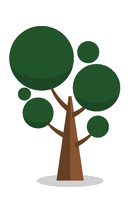
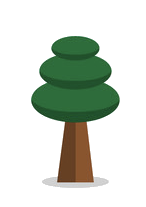
Fix for the morning

Changed region(s): [[0.0615, 0.1159, 0.9538, 0.9275]]

diff --git a/lib/pages/mainPage.dart b/lib/pages/mainPage.dart
@@ -302,8 +302,23 @@ class Content extends StatelessWidget {
 
   @override
   Widget build(BuildContext context) {
-    var treeList = ["Oak", "Birch", "Eukalyptus", "Willow", "Aloe Vera", "Rosewood", "Japanese Maple", "Cork", "Ceedar", "Banksia"];
-    var treeImg = ["Tree"];
+    var counter = 10;
+    var treeList = ["Wallnut", "Beech", "Eukalyptus", "Chestnut", "Aspen", "Elm", "Poplar", "Pine", "Acacia", "Palm"];
+    final score = ["4", "6", "1", "5", "8", "4", "9", "2", "6", "3"];
+
+    var treeImgOne = "lib/assets/images/treeImg/1.png";
+    var treeImgTwo = "lib/assets/images/treeImg/2.png";
+    var treeImgThree = "lib/assets/images/treeImg/3.png";
+    var treeImgFour = "lib/assets/images/treeImg/4.png";
+    var treeImgFive = "lib/assets/images/treeImg/5.png";
+    var treeImgSix = "lib/assets/images/treeImg/6.png";
+    var treeImgSeven = "lib/assets/images/treeImg/7.png";
+    var treeImgEight = "lib/assets/images/treeImg/8.png";
+    var treeImgNine = "lib/assets/images/treeImg/9.png";
+    var treeImgTen = "lib/assets/images/treeImg/10.png";
+
+    var treeImgList = [treeImgOne, treeImgTwo, treeImgThree, treeImgFour, treeImgFive, treeImgSix, treeImgSeven, treeImgEight, treeImgNine, treeImgTen];
+
 
     return Padding(
       padding: EdgeInsets.all(0.0),
@@ -314,11 +329,15 @@ class Content extends StatelessWidget {
         mainAxisSpacing: 32.0,
         crossAxisSpacing: 16.0,
         children: <Widget>[
-          for (String i in treeList)
+
+           for (int i = 1; i < counter; i++)
             Cards(
-              title: i,
+              title: treeList[i],
+              score: score[i],
+              treeImg: treeImgList[i],
               curve: 10.0,
             )
+
         ],
       ),
     );
@@ -328,8 +347,10 @@ class Content extends StatelessWidget {
 class Cards extends StatefulWidget {
   var title;
   double curve;
+  String score; 
+  var treeImg;
 
-  Cards({Key key, @required this.title, @required this.curve})
+  Cards({Key key, @required this.title, @required this.curve, @required this.score, @required this.treeImg})
       : super(key: key);
 
   @override
@@ -350,36 +371,53 @@ class _CardsState extends State<Cards> {
               builder: (BuildContext context) {
                 // return object of type Dialog
                 return AlertDialog(
-                  titlePadding: EdgeInsets.fromLTRB(20, 300, 20, 20),
+                  titlePadding: EdgeInsets.fromLTRB(20, 100, 20, 20),
                   shape: RoundedRectangleBorder(
                       borderRadius: BorderRadius.all(Radius.circular(15.0))),
-                  title: new Text(
-                    "Delete?",
-                    style: TextStyle(
-                      fontWeight: FontWeight.w600,
+                  // title: new Text(
+                  //   "Delete?",
+                  //   style: TextStyle(
+                  //     fontWeight: FontWeight.w600,
+                  //   ),
+                  // ),
+                  content: Column(
+                      crossAxisAlignment: CrossAxisAlignment.center,
+                      mainAxisAlignment: MainAxisAlignment.center,
+                      children: <Widget>[
+                        Image.asset(widget.treeImg), 
+                        Text("Tree Name"), 
+                        Text("Information"), 
+                        Text("Score"), 
+
+                      ],
                     ),
-                  ),
-                  //content: new Text("Alert Dialog body"),
                   actions: <Widget>[
                     // usually buttons at the bottom of the dialog
 
                     new FlatButton(
-                      child: new Text("Delete"),
-                      onPressed: () {
-                        //delete function
-                      },
-                    ),
-                    new FlatButton(
                       child: new Text(
-                        "Cancel",
+                        "AR",
                         style: TextStyle(
                           fontWeight: FontWeight.bold,
                         ),
                       ),
                       onPressed: () {
+                        //delete function
+                      },
+                    ),
+
+                      new FlatButton(
+                      child: new Text(
+                        "Cancel",
+                        // style: TextStyle(
+                        //   fontWeight: FontWeight.bold,
+                        // ),
+                      ),
+                      onPressed: () {
                         Navigator.of(context).pop();
                       },
                     ),
+                  
                   ],
                 );
               });
@@ -401,9 +439,22 @@ class _CardsState extends State<Cards> {
                 ],
               ),
             ),
-            child: new Align(
+            child: Padding(
+              padding: EdgeInsets.only(left: 10.0, right: 10.0),
+              child: Column(
+                mainAxisAlignment: MainAxisAlignment.spaceBetween,
+                children: <Widget>[
+
+                  Image.asset(widget.treeImg), 
+
+
+
+              Align(
               alignment: FractionalOffset(0.1, 0.95),
-              child: new Text(
+              child: Row(
+              mainAxisAlignment: MainAxisAlignment.spaceBetween,
+              children: <Widget>[
+                new Text(
                 widget.title,
                 style: new TextStyle(
                   fontSize: 24.0,
@@ -411,7 +462,42 @@ class _CardsState extends State<Cards> {
                   fontWeight: FontWeight.w700,
                 ),
               ),
+
+              new Text(
+                widget.score,
+                style: new TextStyle(
+                  fontSize: 18.0,
+                  color: Colors.yellow,
+                  //fontWeight: FontWeight.w700,
+                ),
+              ),
+              ],
             ),
+            ),
+
+                ],
+              ), 
+              
+
+            ),
+            
+           
+            
+          
+            
+            // new Align(
+            //   alignment: FractionalOffset(0.1, 0.95),
+            //   child: new Text(
+            //     widget.title,
+            //     style: new TextStyle(
+            //       fontSize: 24.0,
+            //       color: Colors.white,
+            //       fontWeight: FontWeight.w700,
+            //     ),
+            //   ),
+            // ),
+
+
           ),
         ),
       ),
